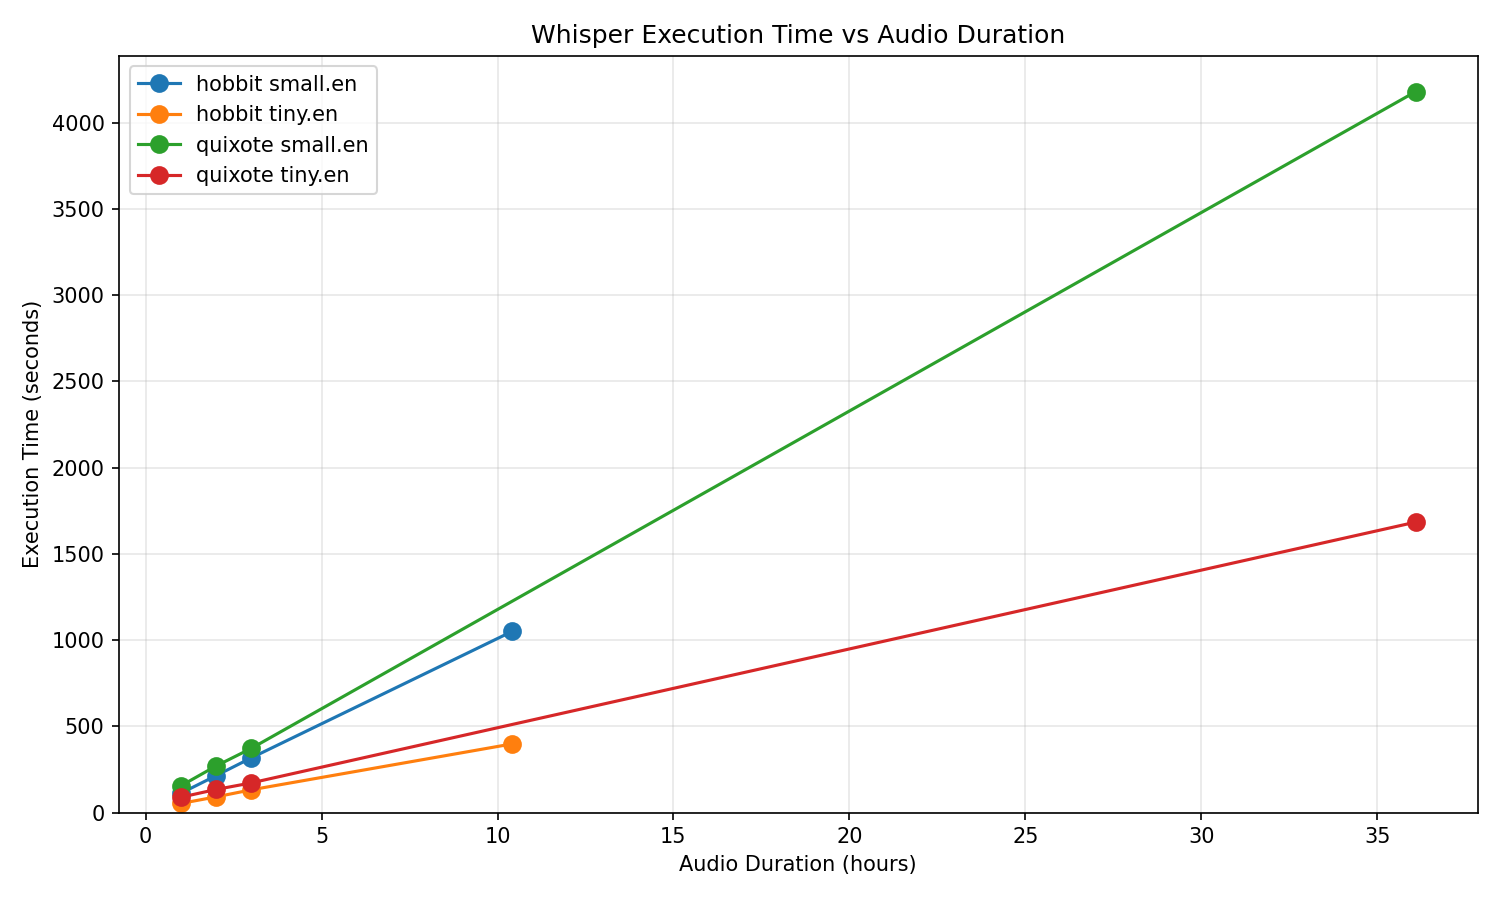
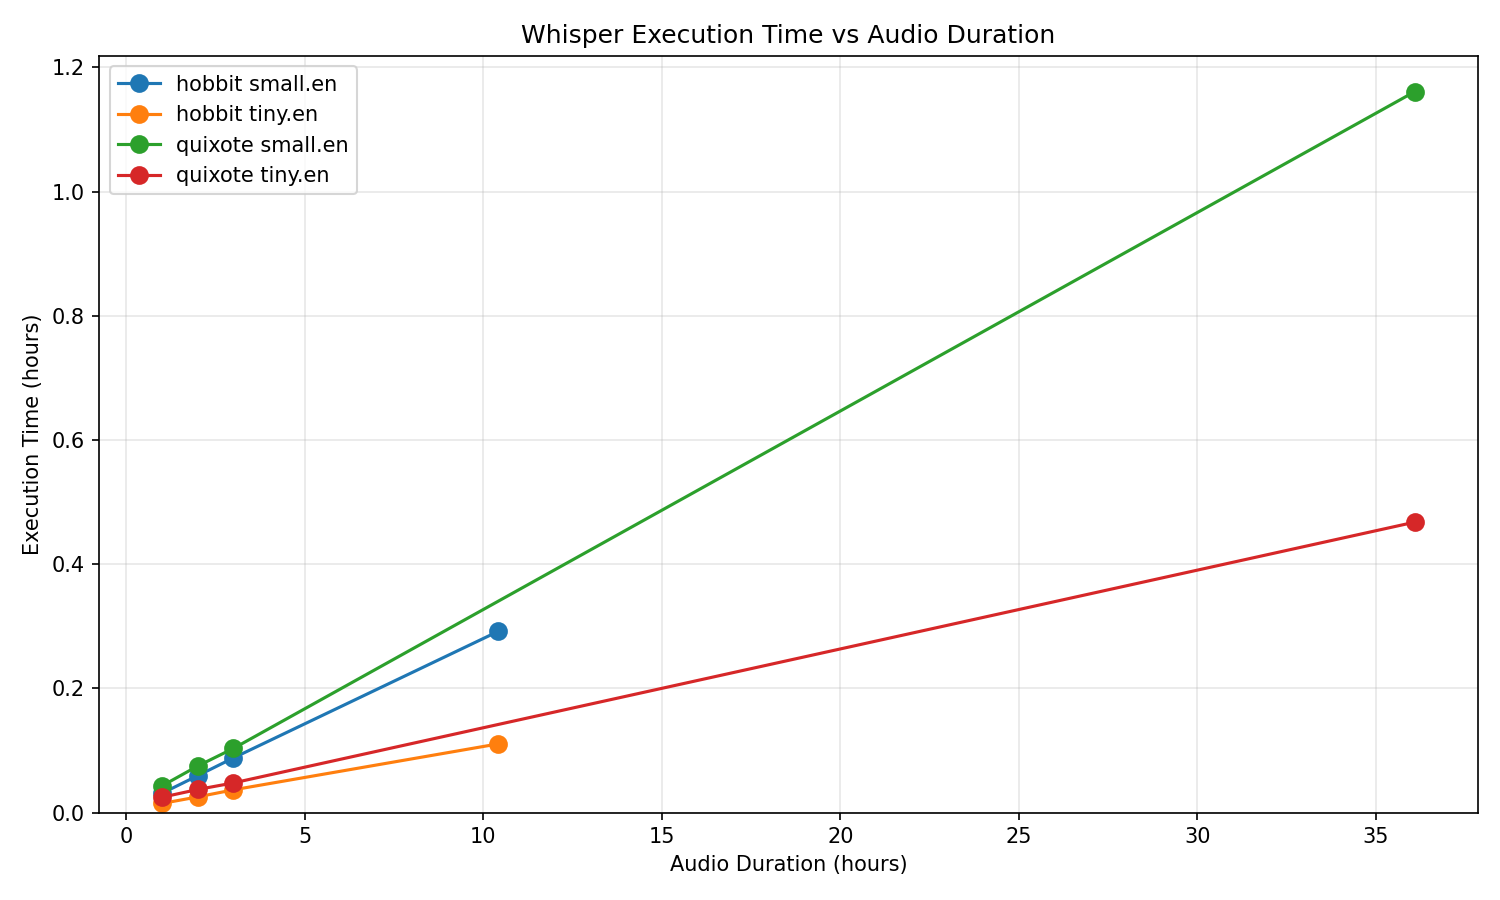
benchmark: use hours/hours axes for execution time plot, zero-based y-axis

diff --git a/bun-one/apps/whisper/scripts/benchmarks/run-bench.ts b/bun-one/apps/whisper/scripts/benchmarks/run-bench.ts
@@ -548,20 +548,20 @@ series = {}
 for d in data:
     key = f"{d['input']} {d['model']}"
     if key not in series:
-        series[key] = {'duration_h': [], 'elapsed': [], 'speedup': []}
+        series[key] = {'duration_h': [], 'elapsed_h': [], 'speedup': []}
     series[key]['duration_h'].append(d['duration'] / 3600)
-    series[key]['elapsed'].append(d['elapsed'])
+    series[key]['elapsed_h'].append(d['elapsed'] / 3600)
     series[key]['speedup'].append(d['speedup'])
 
 # Plot 1: Execution Time vs Duration
 plt.figure(figsize=(10, 6))
 for label, values in sorted(series.items()):
-    pairs = sorted(zip(values['duration_h'], values['elapsed']))
+    pairs = sorted(zip(values['duration_h'], values['elapsed_h']))
     durations, elapsed = zip(*pairs) if pairs else ([], [])
     plt.plot(durations, elapsed, 'o-', label=label, markersize=8)
 
 plt.xlabel('Audio Duration (hours)')
-plt.ylabel('Execution Time (seconds)')
+plt.ylabel('Execution Time (hours)')
 plt.ylim(bottom=0)
 plt.title('Whisper Execution Time vs Audio Duration')
 plt.legend()

diff --git a/bun-one/reports/benchmarks/summary.md b/bun-one/reports/benchmarks/summary.md
@@ -1,6 +1,6 @@
 # Whisper Benchmark Results
 
-Generated: 2026-02-23T18:59:34.626Z
+Generated: 2026-02-23T19:20:54.316Z
 
 ## Results
 
